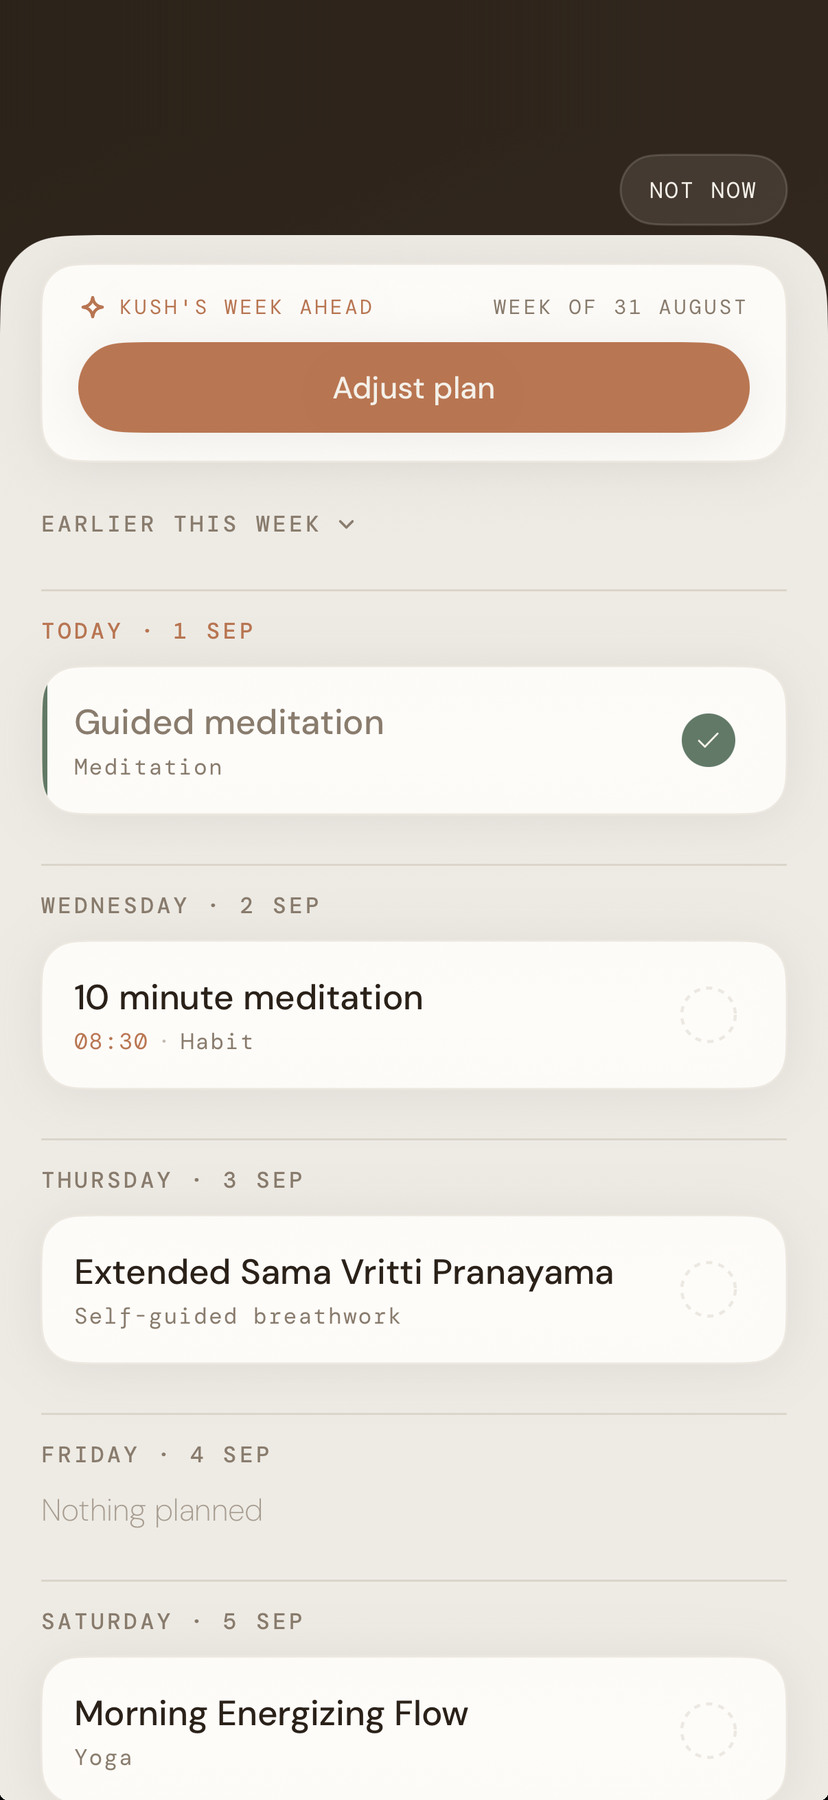
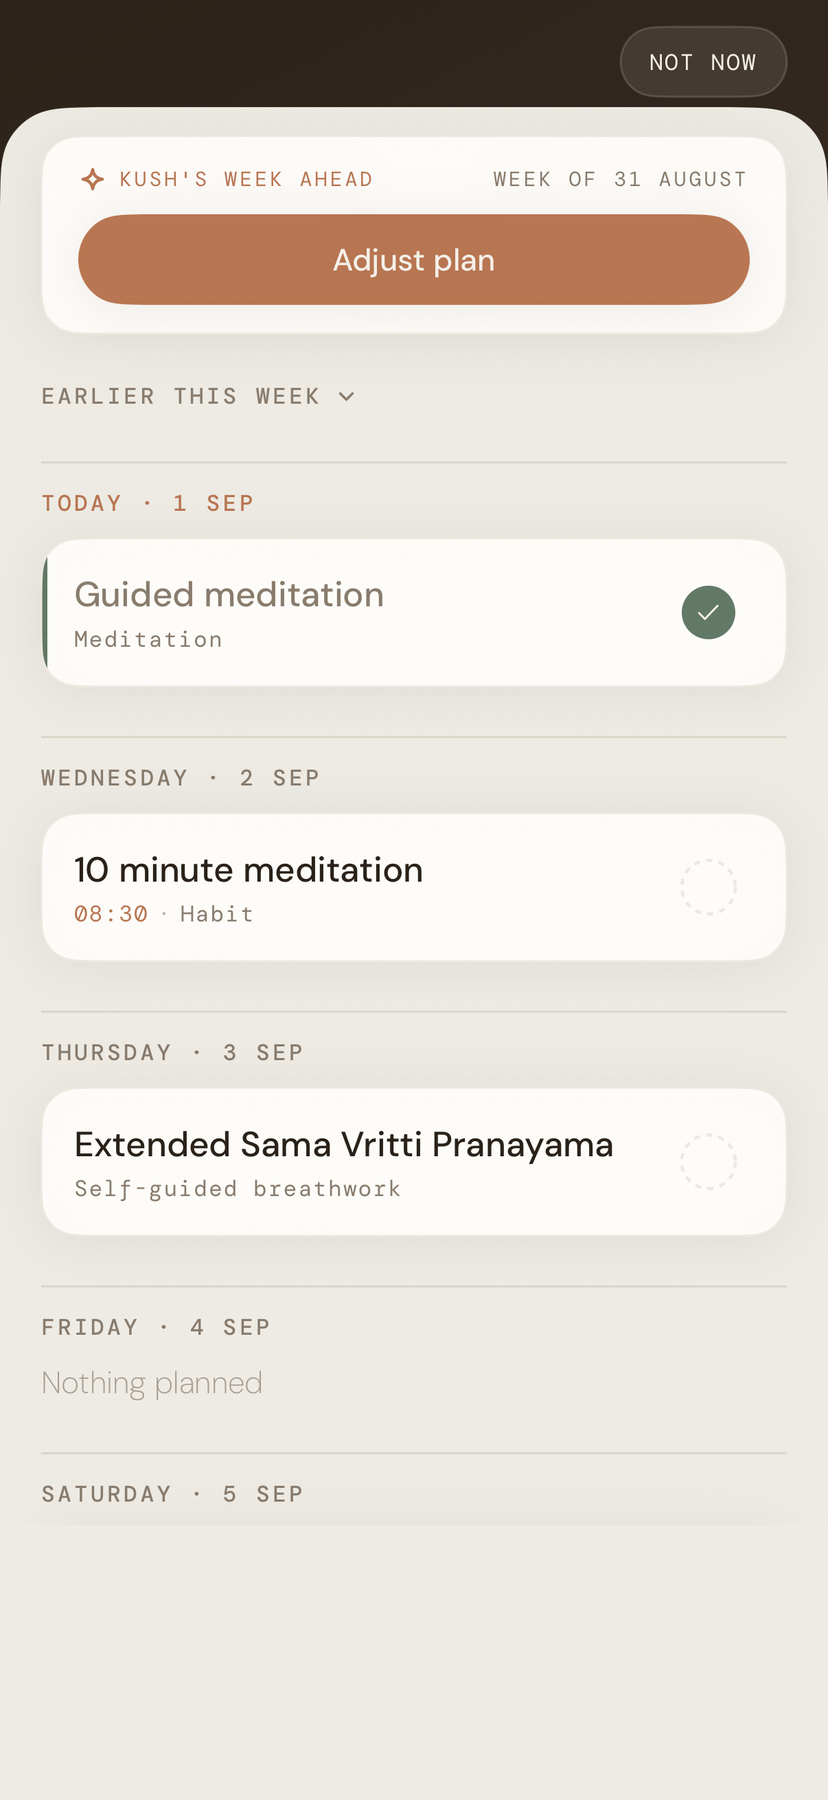
Strip iOS sheet chrome from the bottom of three screenshots
The grey bar Kush reported is the iOS SHEET's rounded bottom corners —
the grey backdrop showing through at the sides where the white sheet
curves away. It is OS chrome, exactly like the status bar, and the
process only ever stripped the top.

Same defect found in two slots nobody had looked at yet:
  live-class   182px of chrome cropped   (the one reported)
  coach-picks  296px                     (Coach chapter, below the fold)
  ritual-week  215px                     (Ritual chapter)

live-tab is deliberately UNTOUCHED. Its bottom is the app's own tab bar,
which is real content — the detector correctly returns clean for it, and
cropping every image on principle would have eaten it.

Detection is measured, not eyeballed: a real app row runs edge to edge in
one background, so scanning up from the bottom for the first row whose
left and right edges stop matching its centre finds where chrome begins.
Cut 8px above that, fill the shortfall at the bottom with the flattest
row in the last 300px.

Rule recorded in lib/screens.ts, the project memory and the master memory
file, and the memory line that told a previous session to pad at the TOP
— which is what produced the blank band in the first place — is corrected
rather than contradicted.

Verified: tsc 0 · next build 0 · all four slots rendered and inspected.

diff --git a/lib/screens.ts b/lib/screens.ts
@@ -15,6 +15,30 @@
  * "Why this" reason expanded, which is the same idea in the shape the app
  * actually ships.
  *
+ * 🔴 STRIP OS CHROME FROM **BOTH ENDS**, NOT JUST THE TOP.
+ * The iOS status bar is the obvious one and it is only half the job. When a
+ * screen is a presented SHEET, the capture also contains the sheet's rounded
+ * bottom corners with the grey backdrop showing through at the sides — which
+ * lands in the phone frame as an ugly grey bar across the bottom. Kush caught
+ * it on the hero twice ("not sure why this keeps happening"), and the same
+ * defect was sitting unnoticed in coachPicks and ritualWeek.
+ *
+ * HOW TO FIND IT WITHOUT EYEBALLING: a real app row runs edge to edge in one
+ * background, so scan up from the bottom for the first row whose LEFT and
+ * RIGHT edge pixels stop matching its CENTRE. That is where the chrome
+ * begins. Cut ~8px above it and fill the shortfall (see below).
+ * ⚠ Do NOT apply this blindly — a full-screen tab view ends in the app's own
+ * tab bar, which is real content. `liveTab` is exactly that case and is
+ * deliberately uncropped. The detector returns "clean" for it; trust that.
+ *
+ * FILLING THE SHORTFALL: every capture is shorter than 828x1800 once the
+ * chrome is off, so the remainder must be filled. Fill at the BOTTOM, never
+ * the top — at the top it is a pale strip above a dark photo and reads as a
+ * blank band; at the bottom it continues the screen's own background and
+ * disappears. Pick the fill row by MEASURING the flattest row in the last
+ * 300px, never by taking the last row: on IMG_5380 the last row carries a
+ * shadow (stddev 28) and stretching it produced a visible streak.
+ *
  * ── 2026-09-01, Kush's captures ──────────────────────────────────────────
  * Four slots re-shot from full-screen 1206x2622 simulator captures. EVERY
  * app screenshot used publicly gets the iOS status bar (top 186px) AND the
